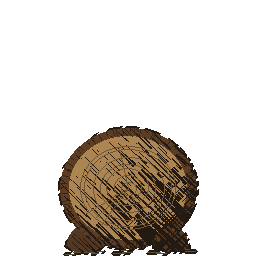
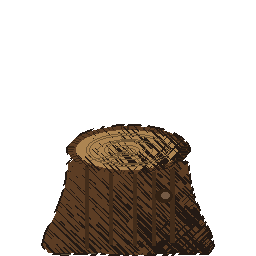
Rework felling mechanics to support multiple leftovers and improve resource definition clarity
- Replace `FellLeavesKind` and `FellLeavesAmount` with a unified `FellLeaves` list in `ResourceDefinition`, allowing multiple leftover types per resource (e.g., stumps, logs).
- Update `FellCommand` to spawn multiple leftovers in distinct positions around the felled resource node, ensuring consistent and deterministic placement.
- Revise resource JSON files (`deciduous_tree.json`, `conifer_tree.json`, etc.) to reflect the new `FellLeaves` structure.
- Add unit tests for `FellCommand` to verify stump and log placement, quantities, and interaction mechanics.
- Enhance visual assets (`tree_stump.png`, `fallen_log.png`) to match multi-leftover behavior.
- Refactor tests and fixtures to align with updated resource definitions and mechanics.

Changed region(s): [[0.1562, 0.4688, 0.8438, 1.0]]

diff --git a/art/generate_sprites.py b/art/generate_sprites.py
@@ -1619,39 +1619,80 @@ def wild_grass():
     return c
 
 
+def _bark_dashes_along(c, bark, x0, x1, ys, rng):
+    """Long broken dashes running the length of a lying trunk - bark grain follows the
+    axis of the wood (this is what the reference log barrels show), not a crosshatch."""
+    for y in ys:
+        x = x0 + rng.uniform(0, 3)
+        while x < x1:
+            seg = rng.uniform(3.5, 8.0)
+            gap = rng.uniform(1.2, 3.0)
+            yy = y + rng.uniform(-0.5, 0.5)
+            c.flat(rect(x, yy, min(x + seg, x1), yy + 0.7), darken(bark, 0.3))
+            x += seg + gap
+
+
+def _log_knot(c, cx, cy, bark, rng):
+    c.flat(ellipse(cx, cy, 2.2, 1.6), darken(bark, 0.45))
+    c.flat(ellipse(cx + 0.3, cy - 0.2, 1.0, 0.7), lighten(bark, 0.15))
+
+
 def tree_stump():
-    """A cut stump: bark rind, a ring-marked top, a couple of surface roots - still
-    rooted in the ground, unlike fallen_log lying on its side."""
+    """A cut stump: bark rind around a short, slightly flared drum with roots splaying at
+    the base, topped by a foreshortened cut face - a stump is broken/cut, not machined, so
+    it also carries a torn-off splinter at the rim."""
     seed = seed_for("tree_stump")
     rng = random.Random(seed)
     c = Canvas(seed)
     bark = rgb(0.36, 0.24, 0.14)
     core = rgb(0.68, 0.52, 0.32)
-    root_l = jagged_poly([(14, GROUND_CONTACT_Y), (24, 51), (28, GROUND_CONTACT_Y)], rng, amp=0.6, segments_per_edge=3, smooth_passes=1)
-    root_r = jagged_poly([(50, GROUND_CONTACT_Y), (40, 51), (36, GROUND_CONTACT_Y)], rng, amp=0.6, segments_per_edge=3, smooth_passes=1)
-    c.fill(poly(root_l) | poly(root_r), darken(bark, 0.1))
-    _wood_log(c, 32, 47, 17, 15, bark, core, seed)
-    _ground_shadow_dashes(c, 32, GROUND_CONTACT_Y, 16, seed + 99)
+
+    side_pts = [(17.5, 37.5), (46.5, 37.5), (47.5, 48), (55, GROUND_CONTACT_Y), (46, GROUND_CONTACT_Y),
+                (38, GROUND_CONTACT_Y + 0.5), (26, GROUND_CONTACT_Y + 0.5), (18, GROUND_CONTACT_Y),
+                (9, GROUND_CONTACT_Y), (16.5, 48)]
+    side = poly(jagged_poly(side_pts, rng, amp=0.7, segments_per_edge=3, smooth_passes=1))
+    c.fill(side, bark)
+    for x in (22, 27.5, 33, 38.5, 43):
+        sx = x + rng.uniform(-0.8, 0.8)
+        y0 = 40 + rng.uniform(0, 3)
+        c.flat(rect(sx, y0, sx + 0.8, GROUND_CONTACT_Y - rng.uniform(0.5, 3)) & side, darken(bark, 0.28))
+    _log_knot(c, 41, 49, bark, rng)
+
+    splinter = poly(jagged_poly([(19, 38), (23, 38), (21.5, 32.5)], rng, amp=0.3,
+                                 segments_per_edge=2, smooth_passes=1))
+    c.fill(splinter, darken(bark, 0.1))
+
+    _wood_log(c, 32, 37.5, 15, 5.8, bark, core, seed)
+    _ground_shadow_dashes(c, 32, GROUND_CONTACT_Y, 17, seed + 99)
     c.rough_outline(width=max(1, SCALE // 2))
     return c
 
 
 def fallen_log():
-    """A log lying on its side - one cut end shows growth rings, the long body is just
-    crosshatched bark with a few seam lines (rings only read at an actual cut face)."""
+    """A log lying on its side - a barrel thick at one end tapering to the other, a
+    snapped branch stub, and the cut end seen obliquely as a narrow upright ellipse (not
+    a full front-facing disc)."""
     seed = seed_for("fallen_log")
     rng = random.Random(seed)
     c = Canvas(seed)
     bark = rgb(0.38, 0.26, 0.15)
     core = rgb(0.70, 0.53, 0.33)
-    body = poly(jagged_poly(
-        [(14, 51), (50, 45), (52, 57), (16, GROUND_CONTACT_Y)], rng, amp=0.8, segments_per_edge=4, smooth_passes=1))
+
+    body_pts = [(15, 44), (30, 43.5), (49, 45.5), (53.5, 50), (52.5, 56.5),
+                (34, 58), (16, GROUND_CONTACT_Y), (11.5, 51.5)]
+    body = poly(jagged_poly(body_pts, rng, amp=0.7, segments_per_edge=3, smooth_passes=1))
     c.fill(body, bark)
-    for x in (22, 30, 38):
-        seam_x = x + rng.uniform(-1, 1)
-        c.flat(rect(seam_x, 47, seam_x + 0.8, 61) & body, darken(bark, 0.22))
-    _wood_log(c, 14, 52, 9, 11, bark, core, seed + 1)
-    _ground_shadow_dashes(c, 34, GROUND_CONTACT_Y, 20, seed + 99)
+    _bark_dashes_along(c, bark, 19, 51, (46.5, 49.5, 52.5, 55.5), rng)
+    _log_knot(c, 31, 49, bark, rng)
+    _log_knot(c, 43, 53.5, bark, rng)
+
+    stub = poly(jagged_poly([(37, 44.5), (40.5, 44.5), (44.5, 37.5), (42.5, 36.5)],
+                            rng, amp=0.4, segments_per_edge=2, smooth_passes=1))
+    c.fill(stub, darken(bark, 0.08))
+    c.flat(ellipse(43.6, 37.2, 1.3, 0.9), core)
+
+    _wood_log(c, 14, 51.3, 5.2, 7.3, bark, core, seed + 1)
+    _ground_shadow_dashes(c, 33, GROUND_CONTACT_Y, 21, seed + 99)
     c.rough_outline(width=max(1, SCALE // 2))
     return c
 

diff --git a/src/ManyWinters.Tests/TestSupport/TestCatalogs.cs b/src/ManyWinters.Tests/TestSupport/TestCatalogs.cs
@@ -134,10 +134,13 @@ public static class TestCatalogs
     private const float DecorationWoodRegenPerTick = 0.5f;
     private const float DecorationGroundCoverRegenPerTick = 1f;
 
-    // Felling a standing forest tree leaves a stump (still has some wood left to gather, but
-    // never regrows - a stump doesn't put out new branches); felling a bush just leaves an
-    // ordinary small wood pile, the same kind a cleared fruit tree leaves.
-    private const float FellTreeStumpYield = 60f;
+    // Felling a standing forest tree leaves both a stump in its own spot (still has some wood
+    // left to gather, but never regrows - a stump doesn't put out new branches) and a fallen
+    // log nearby (the bulk of the trunk's wood, too much for one inventory load to carry off
+    // in one go); felling a bush just leaves an ordinary small wood pile, the same kind a
+    // cleared fruit tree leaves.
+    private const float FellTreeStumpYield = 20f;
+    private const float FellLogYield = 40f;
     private const float FellBushWoodYield = 30f;
 
     // Mirrors Content/resources/{kind}/{kind}.json's collisionRadius exactly - see
@@ -159,15 +162,15 @@ public static class TestCatalogs
 
     private static ResourceCatalog CreateResourceCatalog() => new(new[]
     {
-        new ResourceDefinition(Apple, "Apple", Foraging, AppleItem, ColdFoodYield, FoodRegenPerTick, CanFell: true, FellLeavesKind: Wood, FellLeavesAmount: FellWoodYield, CollisionRadius: FruitTreeCollisionRadius),
-        new ResourceDefinition(Pear, "Pear", Foraging, PearItem, ColdFoodYield, FoodRegenPerTick, CanFell: true, FellLeavesKind: Wood, FellLeavesAmount: FellWoodYield, CollisionRadius: FruitTreeCollisionRadius),
+        new ResourceDefinition(Apple, "Apple", Foraging, AppleItem, ColdFoodYield, FoodRegenPerTick, CanFell: true, FellLeaves: [new(Wood, FellWoodYield)], CollisionRadius: FruitTreeCollisionRadius),
+        new ResourceDefinition(Pear, "Pear", Foraging, PearItem, ColdFoodYield, FoodRegenPerTick, CanFell: true, FellLeaves: [new(Wood, FellWoodYield)], CollisionRadius: FruitTreeCollisionRadius),
         new ResourceDefinition(Mushroom, "Mushroom", MushroomForaging, MushroomItem, ColdFoodYield, FoodRegenPerTick),
         new ResourceDefinition(Potato, "Potato", RootDigging, PotatoItem, ColdFoodYield, FoodRegenPerTick),
         new ResourceDefinition(Wood, "Wood", Woodcutting, WoodItem, RegenPerTick: WoodRegenPerTick),
         new ResourceDefinition(Grass, "Wild Grass", Foraging, GrassItem, RegenPerTick: GrassRegenPerTick),
-        new ResourceDefinition(ConiferTree, "Conifer Tree", Woodcutting, WoodItem, RegenPerTick: DecorationWoodRegenPerTick, CanFell: true, FellLeavesKind: TreeStump, FellLeavesAmount: FellTreeStumpYield, CollisionRadius: ForestTreeCollisionRadius),
-        new ResourceDefinition(DeciduousTree, "Deciduous Tree", Woodcutting, WoodItem, RegenPerTick: DecorationWoodRegenPerTick, CanFell: true, FellLeavesKind: TreeStump, FellLeavesAmount: FellTreeStumpYield, CollisionRadius: ForestTreeCollisionRadius),
-        new ResourceDefinition(Bush, "Bush", Woodcutting, WoodItem, RegenPerTick: DecorationWoodRegenPerTick, CanFell: true, FellLeavesKind: Wood, FellLeavesAmount: FellBushWoodYield, CollisionRadius: BushCollisionRadius),
+        new ResourceDefinition(ConiferTree, "Conifer Tree", Woodcutting, WoodItem, RegenPerTick: DecorationWoodRegenPerTick, CanFell: true, FellLeaves: [new(TreeStump, FellTreeStumpYield), new(FallenLog, FellLogYield)], CollisionRadius: ForestTreeCollisionRadius),
+        new ResourceDefinition(DeciduousTree, "Deciduous Tree", Woodcutting, WoodItem, RegenPerTick: DecorationWoodRegenPerTick, CanFell: true, FellLeaves: [new(TreeStump, FellTreeStumpYield), new(FallenLog, FellLogYield)], CollisionRadius: ForestTreeCollisionRadius),
+        new ResourceDefinition(Bush, "Bush", Woodcutting, WoodItem, RegenPerTick: DecorationWoodRegenPerTick, CanFell: true, FellLeaves: [new(Wood, FellBushWoodYield)], CollisionRadius: BushCollisionRadius),
         new ResourceDefinition(Flower, "Flower", Foraging, GrassItem, RegenPerTick: DecorationGroundCoverRegenPerTick),
         new ResourceDefinition(Fern, "Fern", Foraging, GrassItem, RegenPerTick: DecorationGroundCoverRegenPerTick),
         new ResourceDefinition(RockPile, "Rock Pile", Mining, StoneItem, CollisionRadius: RockPileCollisionRadius),

diff --git a/src/ManyWinters.Core/Commands/FellCommand.cs b/src/ManyWinters.Core/Commands/FellCommand.cs
@@ -3,11 +3,16 @@ using ManyWinters.Core.World;
 
 namespace ManyWinters.Core.Commands;
 
-// Destroys a fellable resource node (a fruit tree, say), leaving behind a one-time pile of
-// whatever ResourceDefinition.FellLeavesKind says (typically wood) that still has to be
+// Destroys a fellable resource node (a fruit tree, say), leaving behind one or more one-time
+// piles of whatever ResourceDefinition.FellLeaves says (typically wood) that still have to be
 // gathered - unlike GatherCommand, which takes from the node repeatedly and leaves it standing.
 public sealed record FellCommand(Person Person, ResourceNode Node) : ICommand
 {
+    // How far a second (or later) leftover - a fallen log next to the stump a tree leaves in
+    // its own spot - lands from where the tree stood, so the two don't sit exactly on top of
+    // each other.
+    private const double SubsequentLeftoverDistance = 1.4;
+
     public void Execute(WorldState world)
     {
         if (!Person.IsAlive || !Node.IsAlive || !world.IsWithinReach(Person.Position, Node.Position))
@@ -26,9 +31,31 @@ public sealed record FellCommand(Person Person, ResourceNode Node) : ICommand
         Node.DeathTick = world.Clock.CurrentTick;
         Node.CauseOfDeath = ResourceDeathCause.Felled;
 
-        if (resource.FellLeavesKind is { } leftoverKind && resource.FellLeavesAmount > 0)
+        if (resource.FellLeaves is not { } leftovers)
         {
-            new SpawnResourceNodeCommand(leftoverKind, Node.Position, resource.FellLeavesAmount).Execute(world);
+            return;
         }
+
+        for (var i = 0; i < leftovers.Count; i++)
+        {
+            var leftover = leftovers[i];
+            if (leftover.Amount <= 0)
+            {
+                continue;
+            }
+
+            var position = i == 0 ? Node.Position : OffsetPosition(Node.Position, Node.Id.Seed, i);
+            new SpawnResourceNodeCommand(leftover.Kind, position, leftover.Amount).Execute(world);
+        }
+    }
+
+    // Deterministic from the node's own id (see EntityId.SeedOf) and the leftover's index, not
+    // a shared mutable Random - the same felled tree drops its log in the same spot on replay.
+    private static Position OffsetPosition(Position origin, int nodeSeed, int index)
+    {
+        var rng = new Random(SeedHash.Avalanche(unchecked((uint)nodeSeed + ((uint)index * 2654435761u))));
+        var angle = rng.NextDouble() * Math.Tau;
+        return new Position(origin.X + (SubsequentLeftoverDistance * Math.Cos(angle)),
+            origin.Y + (SubsequentLeftoverDistance * Math.Sin(angle)));
     }
 }

diff --git a/src/ManyWinters.Core/World/ResourceDefinition.cs b/src/ManyWinters.Core/World/ResourceDefinition.cs
@@ -11,12 +11,13 @@ public sealed record ResourceDefinition(
     IReadOnlyList<ClimateYield>? ClimateYields = null,
     float RegenPerTick = 0f,
     bool CanFell = false,
-    // Felling doesn't hand the yield straight to the person's inventory - it leaves behind an
-    // ordinary resource node of this kind and amount (typically "wood") that still has to be
-    // gathered like anything else, and stands in for the felled tree so the spot doesn't just
-    // go empty.
-    ResourceKindId? FellLeavesKind = null,
-    float FellLeavesAmount = 0f,
+    // Felling doesn't hand the yield straight to the person's inventory - it leaves behind one
+    // ordinary resource node per entry (typically "wood") that still has to be gathered like
+    // anything else, and stands in for the felled tree so the spot doesn't just go empty. A
+    // tree yields more wood than fits in one inventory at once, hence more than one entry: the
+    // first sits exactly where the tree stood (a stump), any further ones (a fallen log) land
+    // nearby instead of stacking invisibly on top of it - see FellCommand.
+    IReadOnlyList<ResourceDefinition.FellLeaf>? FellLeaves = null,
     // How many ticks a node can sit in an IsInhospitable climate before it withers (see
     // WorldState.Advance). float.MaxValue - effectively never - unless a definition opts in
     // with a finite value; a stray 0-multiplier ClimateYield shouldn't kill something by
@@ -29,6 +30,8 @@ public sealed record ResourceDefinition(
     // walk-through icon, and a short one (a rock pile) can still be genuinely solid.
     float CollisionRadius = 0f)
 {
+    public sealed record FellLeaf(ResourceKindId Kind, float Amount);
+
     public float YieldMultiplierFor(Climate climate)
     {
         if (ClimateYields is null)

diff --git a/src/ManyWinters.Tests/Commands/FellCommandTests.cs b/src/ManyWinters.Tests/Commands/FellCommandTests.cs
@@ -49,7 +49,7 @@ public class FellCommandTests
         var configuration = TestCatalogs.CreateConfiguration() with
         {
             ResourceCatalog = new ResourceCatalog([
-                new ResourceDefinition(hollow, "Hollow Tree", TestCatalogs.Foraging, CanFell: true, FellLeavesKind: TestCatalogs.Wood, FellLeavesAmount: 0f),
+                new ResourceDefinition(hollow, "Hollow Tree", TestCatalogs.Foraging, CanFell: true, FellLeaves: [new(TestCatalogs.Wood, 0f)]),
             ]),
         };
         var world = new WorldState(configuration);
@@ -97,6 +97,23 @@ public class FellCommandTests
         world.Execute(new GatherCommand(person, leftover));
 
         Assert.Equal(20, person.Inventory.Get(TestCatalogs.WoodItem));
+    }
+
+    [Fact]
+    public void FellingAForestTreeLeavesBothAStumpInPlaceAndAFallenLogNearby()
+    {
+        var world = TestCatalogs.CreateWorld();
+        var person = world.SpawnPerson("Ava", new Position(3, 4));
+        person.KnownTechniques.Add(TestCatalogs.BasicWoodcutting);
+        var node = world.SpawnResourceNode(TestCatalogs.ConiferTree, new Position(3, 4), 100);
+
+        world.Execute(new FellCommand(person, node));
+
+        Assert.Equal(3, world.ResourceNodes.Count);
+        var stump = Assert.Single(world.ResourceNodes, n => n.Kind == TestCatalogs.TreeStump);
+        Assert.Equal(new Position(3, 4), stump.Position);
+        var log = Assert.Single(world.ResourceNodes, n => n.Kind == TestCatalogs.FallenLog);
+        Assert.NotEqual(new Position(3, 4), log.Position);
     }
 
     [Fact]

diff --git a/src/ManyWinters.Tests/World/ResourceDefinitionTests.cs b/src/ManyWinters.Tests/World/ResourceDefinitionTests.cs
@@ -64,13 +64,12 @@ public class ResourceDefinitionTests
     }
 
     [Fact]
-    public void CanFellFellLeavesKindAndTicksToWitherDefaultToNotFellableAndNeverWithering()
+    public void CanFellFellLeavesAndTicksToWitherDefaultToNotFellableAndNeverWithering()
     {
         var definition = new ResourceDefinition(TestCatalogs.Wood, "Wood", TestCatalogs.Woodcutting);
 
         Assert.False(definition.CanFell);
-        Assert.Null(definition.FellLeavesKind);
-        Assert.Equal(0f, definition.FellLeavesAmount);
+        Assert.Null(definition.FellLeaves);
         Assert.Equal(float.MaxValue, definition.TicksToWither);
     }
 }
